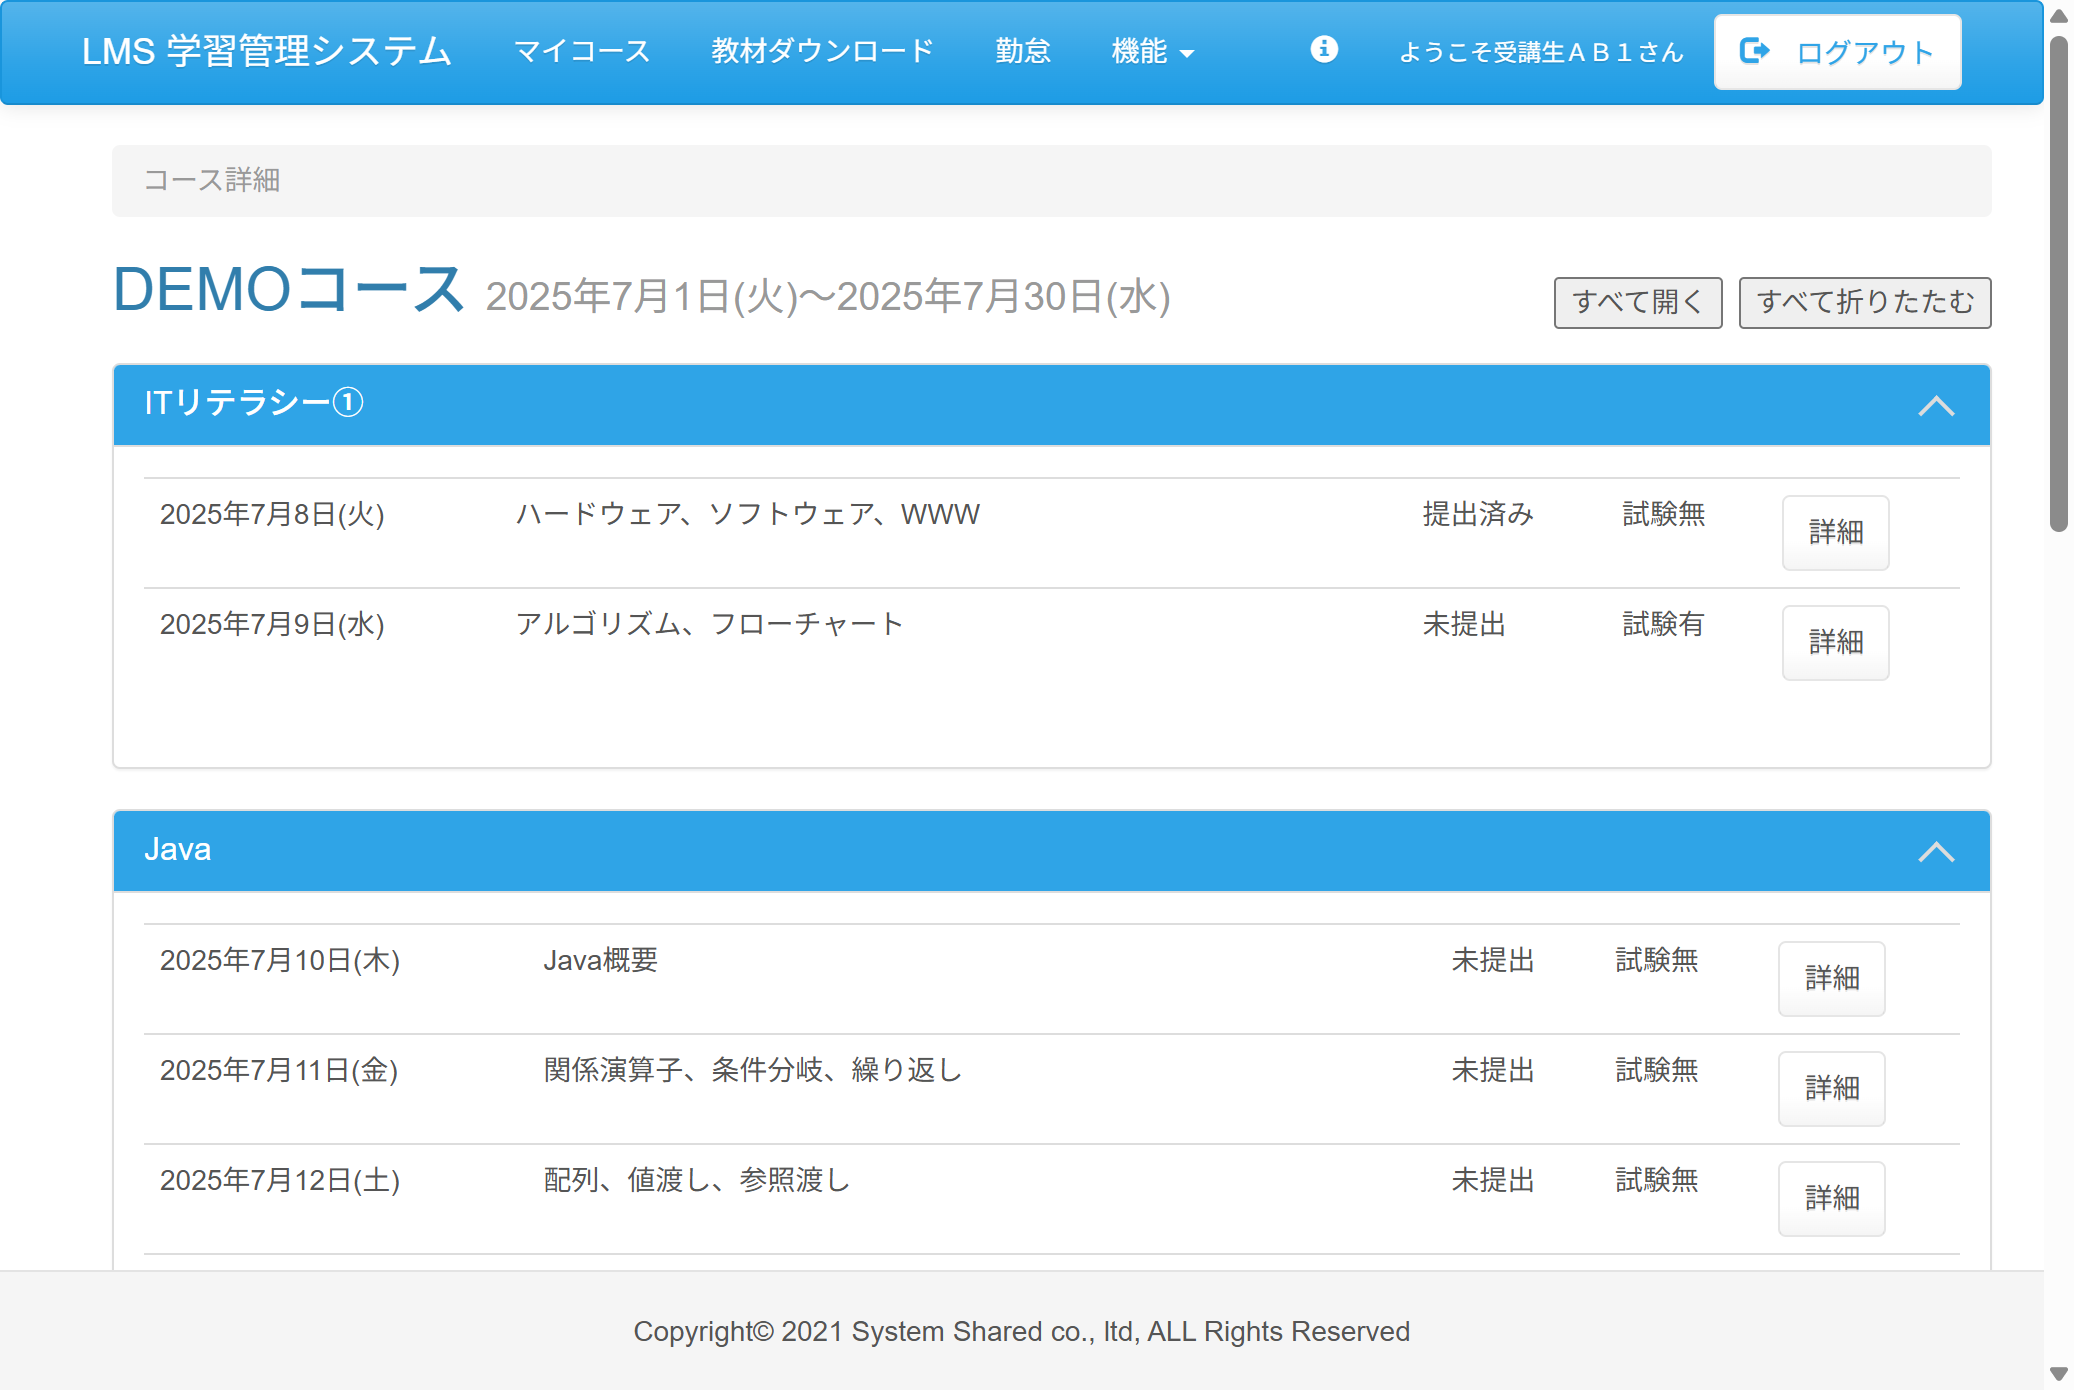
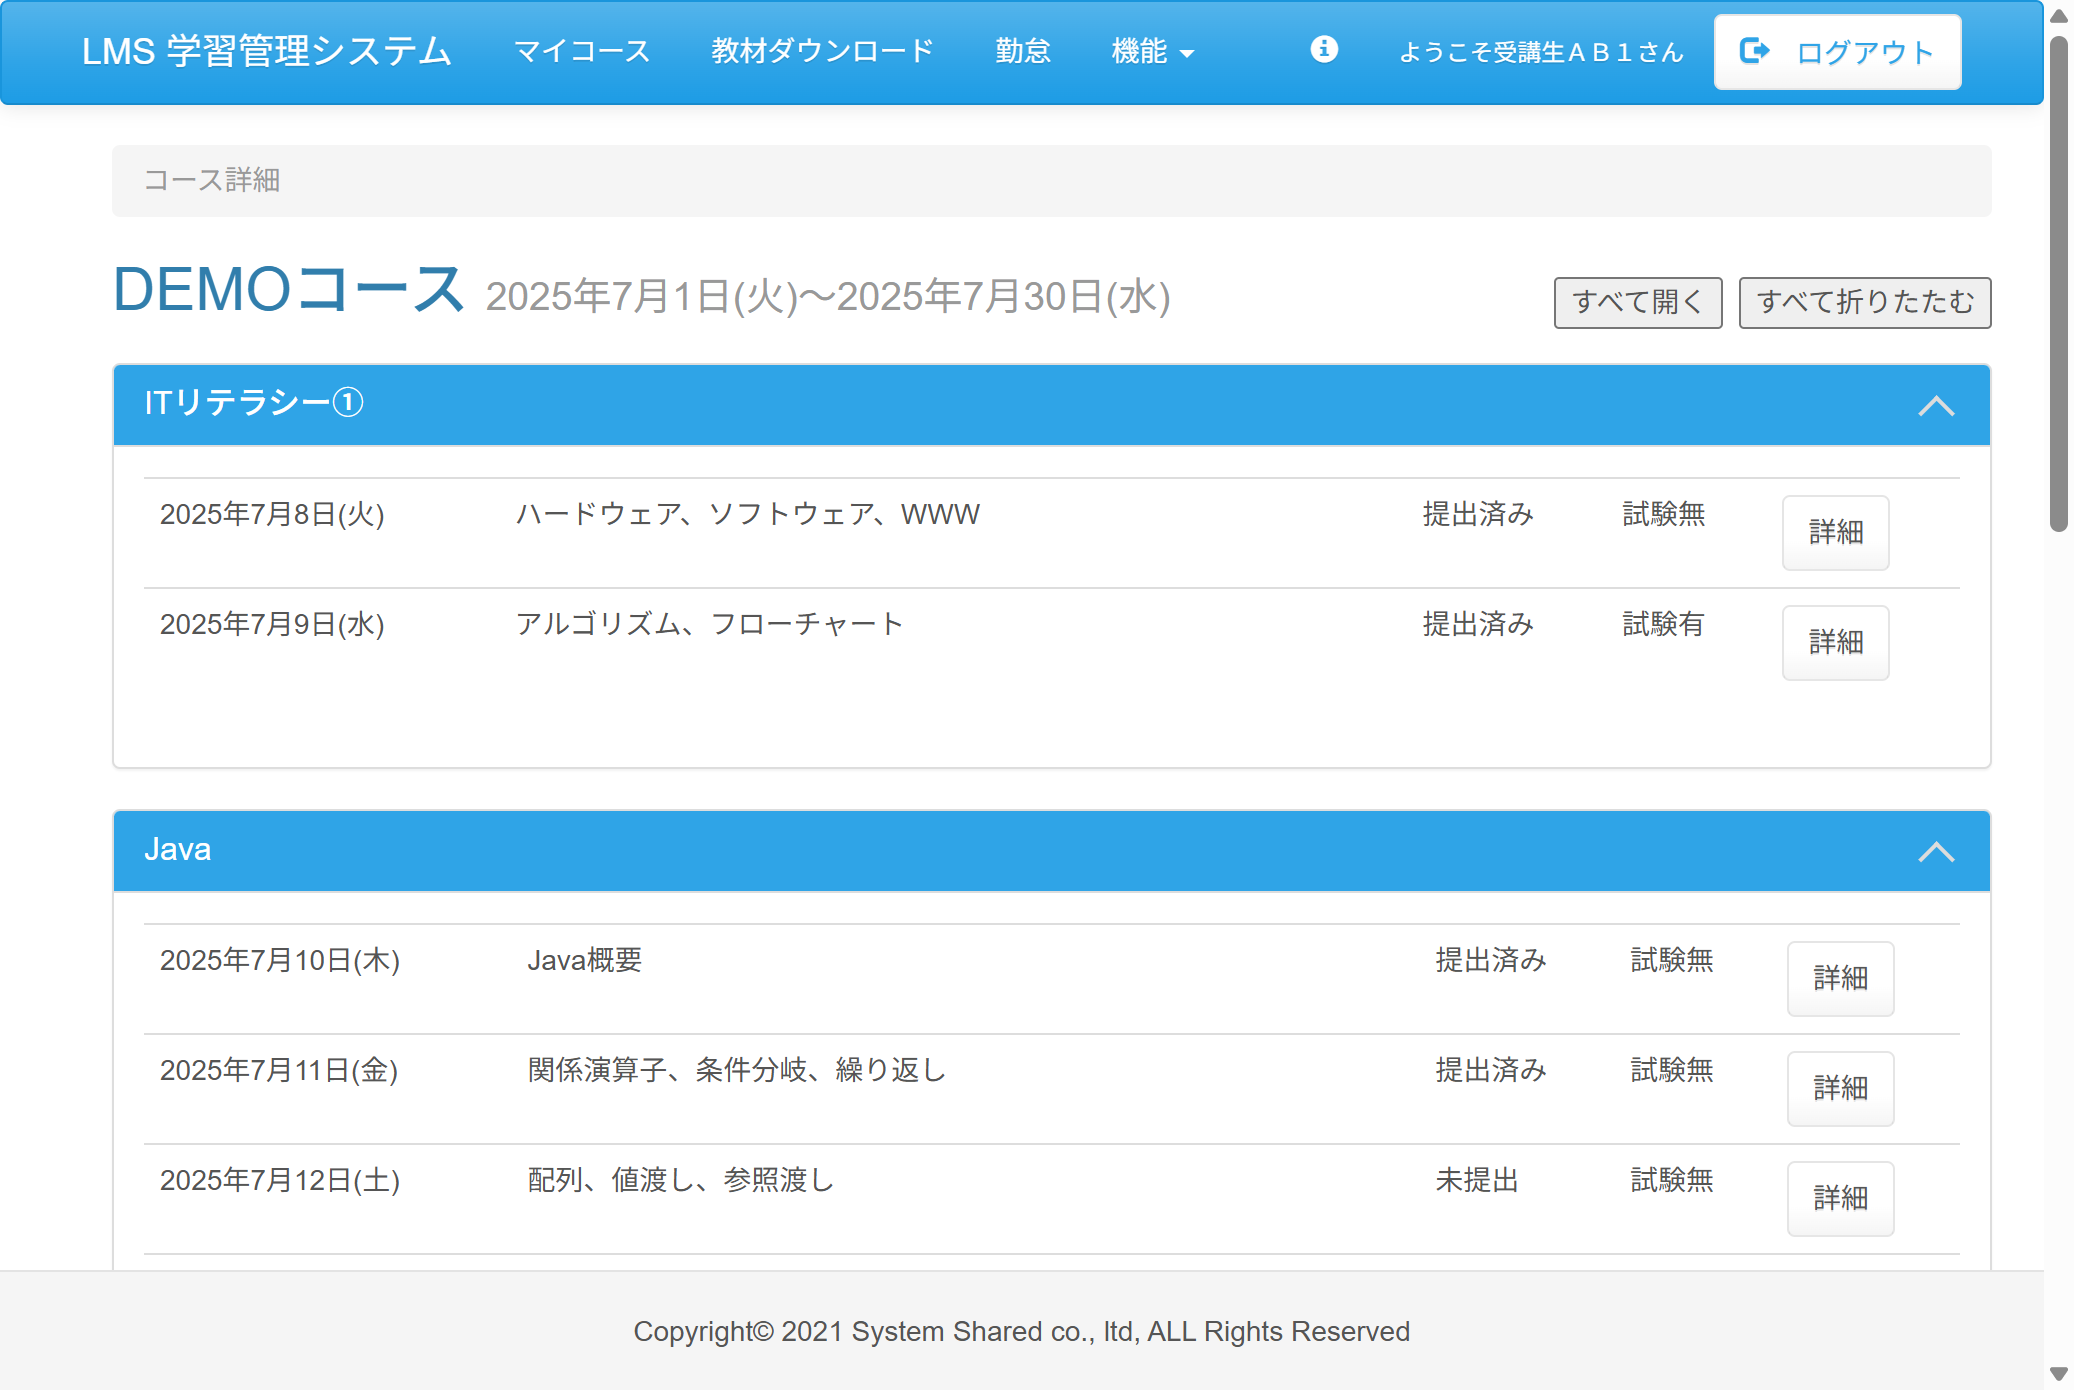
fix:Okamoto Case.08 日報提出済みが複数件あった場合に対応できるよう修正
日報提出済みが複数あった場合、日付が若いものでテストするよう修正

diff --git a/test_code_creation_name/src/test/java/jp/co/sss/lms/ct/f03_report/Case08.java b/test_code_creation_name/src/test/java/jp/co/sss/lms/ct/f03_report/Case08.java
@@ -14,6 +14,7 @@ import org.junit.jupiter.api.Order;
 import org.junit.jupiter.api.Test;
 import org.junit.jupiter.api.TestMethodOrder;
 import org.openqa.selenium.By;
+import org.openqa.selenium.JavascriptExecutor;
 import org.openqa.selenium.WebElement;
 import org.openqa.selenium.support.ui.ExpectedConditions;
 import org.openqa.selenium.support.ui.WebDriverWait;
@@ -93,6 +94,7 @@ public class Case08 {
 	@Order(3)
 	@DisplayName("テスト03 提出済の研修日の「詳細」ボタンを押下しセクション詳細画面に遷移")
 	void test03() {
+		//日付が一番若いもので検証
 		assertEquals("提出済み", webDriver.findElement(By.className("w10per")).getText());
 
 		//詳細ボタン押下
@@ -166,10 +168,23 @@ public class Case08 {
 	@Order(7)
 	@DisplayName("テスト07 該当レポートの「詳細」ボタンを押下しレポート詳細画面で修正内容が反映される")
 	void test07() {
-		WebElement detailElement = webDriver.findElement(By.cssSelector("input[value='詳細']"));
+		List<WebElement> reportRows = webDriver.findElements(By.cssSelector(".table.table-hover tr"));
+
+		// 一番下のレポート行を取得
+		WebElement targetRow = reportRows.get(reportRows.size() - 1);
+		WebElement detailElement = targetRow.findElement(By.cssSelector("input[value='詳細']"));
+
+		//該当レポートまでスクロール
+		((JavascriptExecutor) webDriver).executeScript("arguments[0].scrollIntoView({block: 'center'});",
+				detailElement);
+
 		detailElement.click();
 
-		//修正した文言になっているか確認
+		//待ち処理
+		final WebDriverWait wait = new WebDriverWait(webDriver, Duration.ofSeconds(60));
+		wait.until(ExpectedConditions.visibilityOfElementLocated(By.cssSelector(".table.table-hover td")));
+
+		// 修正した文言になっているか確認
 		List<WebElement> confirmTextElement = webDriver.findElements(By.cssSelector(".table.table-hover td"));
 		assertEquals("修正済みの日報", confirmTextElement.get(1).getText());
 
